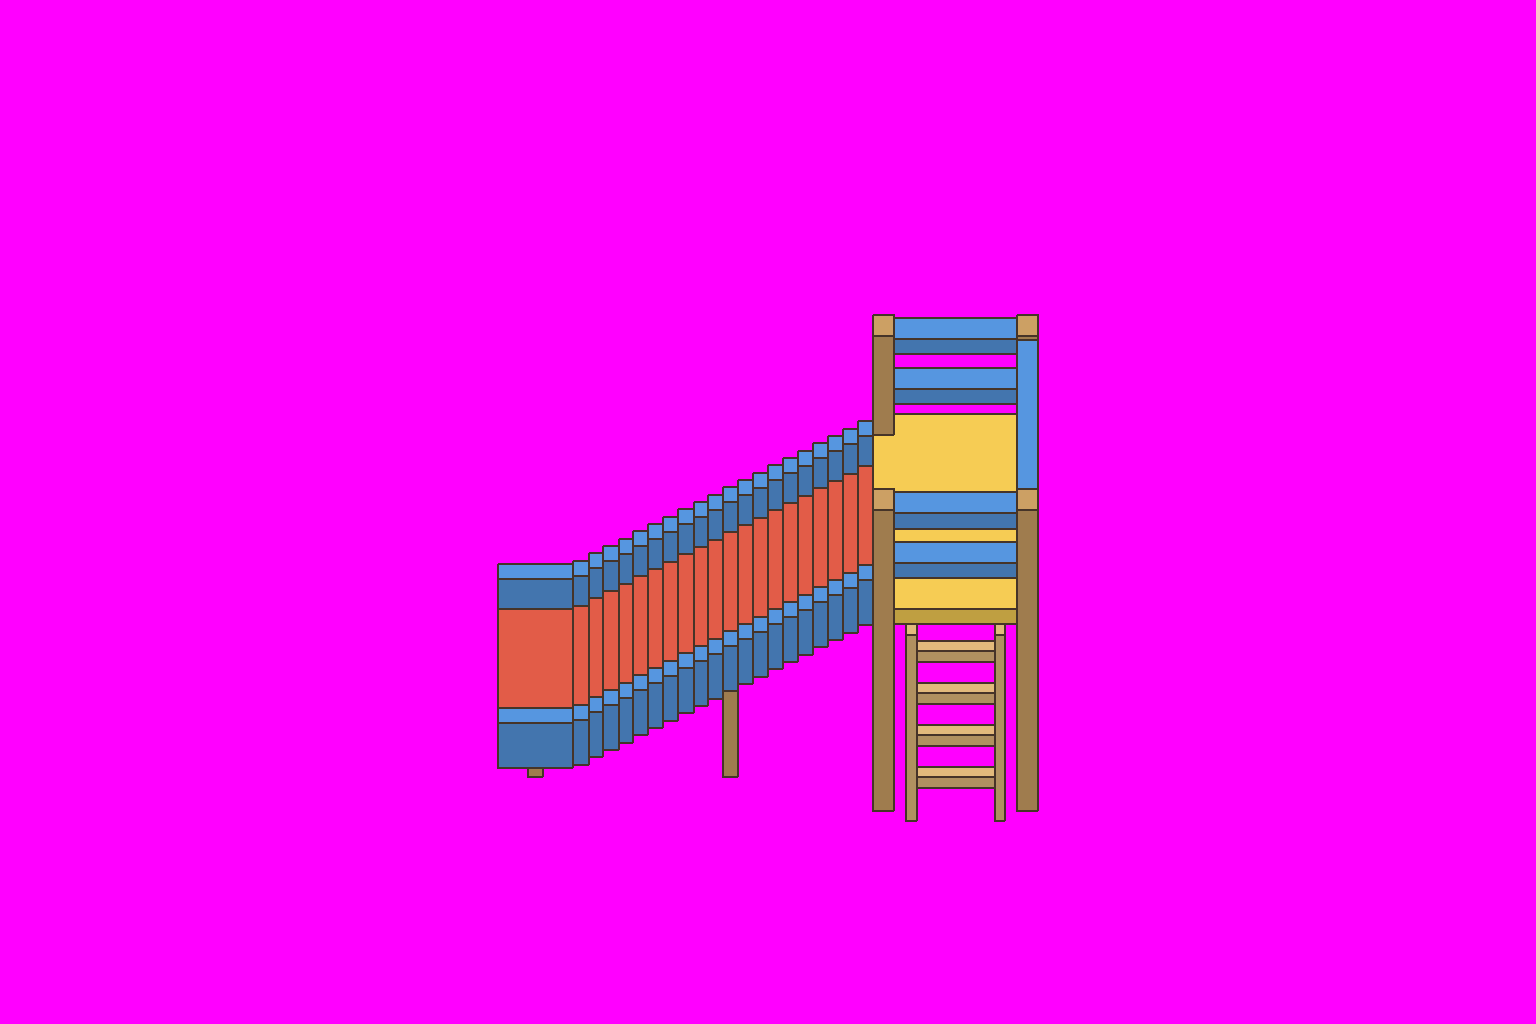
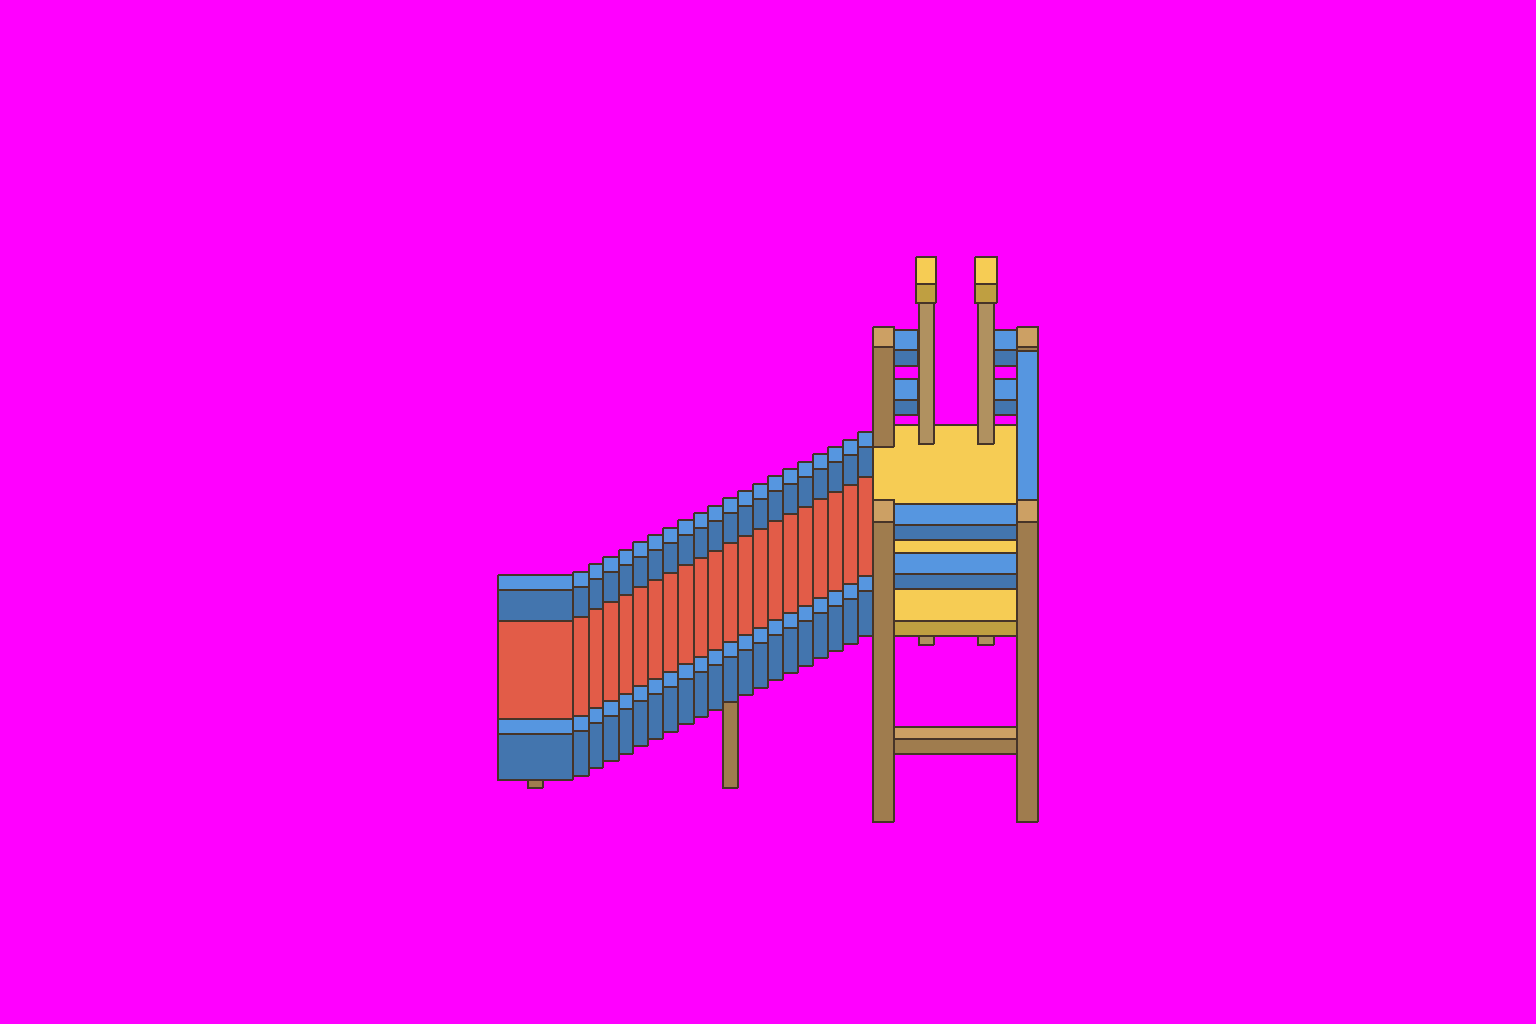
slide, side view: the way in moves to the far side of the tower (the near side cannot be walked to); guide redrawn

Changed region(s): [[0.3125, 0.25, 0.6875, 0.8125], [0.3125, 0.75, 0.375, 0.7812], [0.4688, 0.75, 0.5, 0.7812]]

diff --git a/HANDOFF_S13.md b/HANDOFF_S13.md
@@ -6,6 +6,7 @@
 - เกม: https://phoneyjung.github.io/Leah-PP/ · โหมด GM: `?gm` · repo: https://github.com/phoneyjung/Leah-PP · อัปไฟล์: https://github.com/phoneyjung/Leah-PP/upload/main
 - **พื้นใหม่ไม่มีดอกไม้ (อยู่ในรุ่น 1.17 ที่อัป 4 ต.ค.):** เจ้าของส่งภาพ 5 ภาพ เลือก 4 (`art-G9b-ground-*.png`) · หญ้าเรียบ · ดอกไม้เป็นชิ้นแยก 168 ดอก 60 กลุ่ม วางตามกติกา (ใกล้ต้นไม้ พุ่ม รั้ว เป็นหลัก) · กอหญ้าใช้สีตามสนามหญ้าอัตโนมัติ · แปลงดินของเราวางทับแปลงที่ AI วาด (ของ AI มีรอยเส้นที่ขอบล่าง) · ภาพพื้นของเกมเหลือ 713 KB (เดิม 973)
 - **เฟอร์นิเจอร์รอบวาดทับบล็อก: ได้ผล (4 ต.ค.)** เจ้าของส่ง 20 ภาพ · การทับรูปทรงในภาพนำ: แผ่น A 0.974–0.979 · B 0.926–0.949 (ภาพหนึ่ง 0.844) · C 0.913–0.967 · D 0.18–0.24 (AI ขยายชิ้นและจัดวางใหม่ แต่มุมกล้องถูก) · วางในห้องจริงแล้วองศาเข้ากับห้อง · **คะแนน (องศา / สอดคล้อง / สวย / อื่น ๆ → เฉลี่ย):** A 9.8 / 9.7 / 8.8 / 9.5 → 9.45 ไม่ผ่าน (สตูลของโต๊ะกลายเป็นท่อนซุงเพราะภาพนำเป็นทรงกระบอกตัน) · **B 9.5 / 9.7 / 9.5 / 9.3 → 9.5 ผ่าน** เก็บ `art-furniture-plain-B.png` · **C 9.7 / 9.6 / 9.5 / 9.5 → 9.6 ผ่าน** เก็บ `art-furniture-plain-C.png` (โซฟาเป็นโครงไม้เบาะผ้า ด้านหลังเป็นไม้ สอดคล้องกันทุกทิศ) · D ไม่ผ่าน (ขนาดไม่ตรงภาพนำ) · **แก้ภาพนำ:** A ใส่สตูลจริง (ที่นั่งกลม 3 ขา `STOOL`) · D เพิ่มโต๊ะข้างเตียงเป็น 4 แถว (สูงแถวละ 256) ให้แผ่นแน่น และสตูลรอบโต๊ะกลมใช้แบบเดียวกัน · ส่งพรอมป์ A และ D ใหม่ รอภาพ · ชิ้นใหม่ในระบบ: โต๊ะข้างเตียง 0.9×0.7×0.9
+- **สไลเดอร์: ทางขึ้นย้ายไปด้านไกลของหอ (เจ้าของ 4 ต.ค.)** เจ้าของเห็นจากภาพรูปทรงว่าบันไดลิงด้านใกล้เดินเข้าไม่ถึง (หอชิดผนังขวา ใต้หอเป็นผนังล่าง ต้องลุยบ่อบอลอ้อมไป) จึงเสนอให้ขึ้นจากอีกข้าง · ทำตาม: ทางขึ้นอยู่ด้านเหนือของหอ ซึ่งเป็นพื้นห้องเล่นที่เดินมาจากประตูได้ตรง ๆ · **ข้อจำกัดของมุมกล้อง:** ด้านไกลของหอถูกแท่นบัง มองไม่เห็นบันไดลิง ภาพนำจึงแสดงทางขึ้นเป็นช่องเว้นในราวกันตกด้านไกล ระหว่างเสา 2 ต้นที่สูงกว่า มีหัวเสาสีเหลือง (ปลายราวบันได) · ด้านใกล้ของหอมีคานไม้เตี้ย 1 เส้น · ภาพนำ `house-step23-guide-slide-side.png` แทนของเดิม (กล่องใน `house_slide_side.json`) · ในเกมจะใช้ขนาด 1.2 เท่า: ฐาน 4.32×1.68 ช่องที่แปลน (31.63, 12.2) · ตอนยืนตรงทางขึ้นตัวละครจะถูกหอบังบางส่วน (อยู่หลังหอ) · โค้ดที่ต้องทำเมื่อได้ภาพ: จุดกดเล่น = ด้านเหนือของหอ · ไถลจากขวาไปซ้าย
 - **สไลเดอร์หันข้าง รอบแรกไม่ผ่าน (4 ต.ค.):** 5 ภาพทับภาพนำ 0.88–0.93 มุมกล้องถูก แต่เจ้าของว่า "ดูแปลก ๆ ไม่ค่อยสมจริง" และจริง: ภาพนำของผมปั้นเป็นลิ่มทึบกับหอกล่องทึบ AI จึงวาดออกมาเป็นทางลาดไม้ทึบติดตู้ ไม่เหมือนสไลเดอร์ · บทเรียน: การวาดทับภาพนำได้ผลตรงตามภาพนำ ดังนั้นภาพนำต้องมีรูปทรงของจริง (โครงโปร่ง ชิ้นบาง) ไม่ใช่ก้อนทึบ · **รอบใหม่:** `house-step23-guide-slide-side.png` (150 px ต่อช่อง · `house_slide_side.json`): หอโปร่ง 4 เสา แท่นเหลืองสูง 1.24 ช่อง ราวกันตกฟ้า 2 ชั้น บันไดลิงด้านที่หันหาคนดู · รางบางมีขอบฟ้าลาดลงซ้าย มีขา 2 คู่ ปลายรางราบ · ฐาน 3.6×1.4 ช่อง · ตำแหน่งที่วางแผน: หอชิดผนังขวา (แปลน x 32.35..35.95, y 12.35) ปลายรางเลยขอบบ่อบอลเข้าไป 0.65 ช่อง · ส่งภาพรูปทรงวางในห้องให้เจ้าของดูก่อนเจน
 - **สไลเดอร์: เจ้าของขอให้ไถลจากขวามาซ้าย เพื่อไม่เสียพื้นที่ (4 ต.ค.)** สไลเดอร์ตอนนี้ตั้งแนวบนลงล่าง หออยู่หน้าประตูห้องเล่น · แผนใหม่: หอชิดผนังขวาของห้องเล่น รางไถลไปทางซ้ายลงปลายขวาของบ่อบอล ใช้พื้นที่ว่างข้างบ่อ (แปลนคอลัมน์ 33–35 แถว 12–14) ฐาน 3.2×1.6 ช่อง วางที่ราว (32.7, 12.1) · ต้องมีภาพใหม่มุมหันซ้าย: ส่งภาพนำ `house-step23-guide-slide-left.png` (180 px ต่อช่อง กล่องและขนาดใน `house_slide_left.json`) + พรอมป์แล้ว รอภาพ · เมื่อได้ภาพ: ใส่เป็นภาพสไลเดอร์ (แทนภาพเดิม) ย้ายตำแหน่งใน `rooms.L2/L3a.fixed` และแก้ `slideGo/slideTick` ให้ไถลตามแนวนอน (x จากขวาไปซ้าย y ลดตามความสูงของราง)
 - **รุ่น 1.39 (บ้านขั้น 2 และ 3 ข้างใน + บ่อบอล + สไลเดอร์ + บันได):** เจ้าของส่ง 20 ภาพ ผ่านทั้ง 4 ชุด · ปีกต่อเติม `art-room-wing.png` (ผนังทับภาพนำ 0.91) · ชั้นบน `art-room-upper.png` (0.84) · แผ่น E `art-furniture-plain-E.png` (0.985) · แผ่น F `art-furniture-plain-F.png` (AI วาดใหญ่กว่าภาพนำ 15–18% รูปทรงหลังปรับขนาดตรง 0.90–0.93 → ตัดตามขอบจริงแล้วย่อให้เท่าฐาน) · **`build_room_assets.py`** สร้างไฟล์เกมทั้งหมดของฉากในบ้านจากภาพ art-* (ใช้ `furniture_guides.py` `house_step23_guides.py` `house_layouts.json`): `room-L1.jpg` · `room-L2.jpg` 1184×576 = ห้องขั้น 1 + ปีกวางตั้งแต่คอลัมน์ 25 ปรับสีพื้นทางเดินของปีกให้เข้ากับของเดิม · `room-L3b.jpg` · `furn-plain.png` 640×770 (62 ภาพ) · `furn-plain.json` = `pieces` + `rooms` {L1, L2, L3a, L3b}: `grid` `door` `start` (ของเริ่มต้น) `add` (ของปีก เพิ่มครั้งเดียว ธง `HOME.room2Wing`) `fixed` (สไลเดอร์ บันได ย้ายไม่ได้) `noPlace` (บ่อบอล ช่องบันได) `pit` `hole` `stair` `save` (`room2` ชั้นล่าง · `room2U` ชั้นบน) · บันไดย่อ 2/3 เป็นฐาน 1.33×2.0 ให้มีที่ยืนหน้าบันไดในโถง 3 แถว · **โค้ด:** `room2Build(id,D)` · `MAPS.room` เลือก L1/L2/L3a ตาม `g9HouseK()` · `MAPS.room2` = ชั้นบนเมื่อบ้านขั้น 3 · บ้านขยายแล้วสร้างห้องใหม่ (`r2tier`) · ของที่ยืนทับบันไดหรือบ่อบอลถูกเก็บเข้าคลังเอง · ของของบ้านใหญ่กว่าถูกซ่อนเมื่อบ้านเล็กลง (ไม่ลบ) · **บ่อบอล:** 44 ลูก 6 สี (24 ในโหมดเบา) วาดด้วยโค้ด เป็นวัตถุในฉาก (เรียงหน้าหลังกับตัวละคร) กลิ้งหนีเท้า มีแรงเสียดทาน เด้งขอบบ่อ (`pitInit` `pitTick`) · **สไลเดอร์:** ปุ่มใหญ่ = เล่นสไลเดอร์ เมื่ออยู่ในระยะ 76 px → ไถลจากหอลงบ่อ 1.1 วินาที บอลกระจาย (`slideGo` `slideTick`) · **บันได:** ทางออก `up`/`down` ระหว่าง `room` กับ `room2` · จัดบ้านใช้ได้ทั้งสองชั้น · ชุดทดสอบ `test_139_levels.js` (3 ขั้น: ของเริ่มต้นไม่มีชิ้นไหนอยู่ผิดที่ · เดินถึงทุกช่อง 206 / 316 / 314 / ชั้นบน 221 · บอลขยับ 28 จาก 44 ลูกเมื่อเดินผ่าน ไม่มีลูกหลุดบ่อ · สไลเดอร์จบในบ่อ · ขึ้นลงบันไดได้) · **ยังไม่ได้ทำ:** ชุดสวยและร้าน · พรมหมุน · เงาใต้ของ · ท่านั่งบนสไลเดอร์ (ตอนนี้ตัวละครยืนไถล) · บ้านระดับ 4–9
